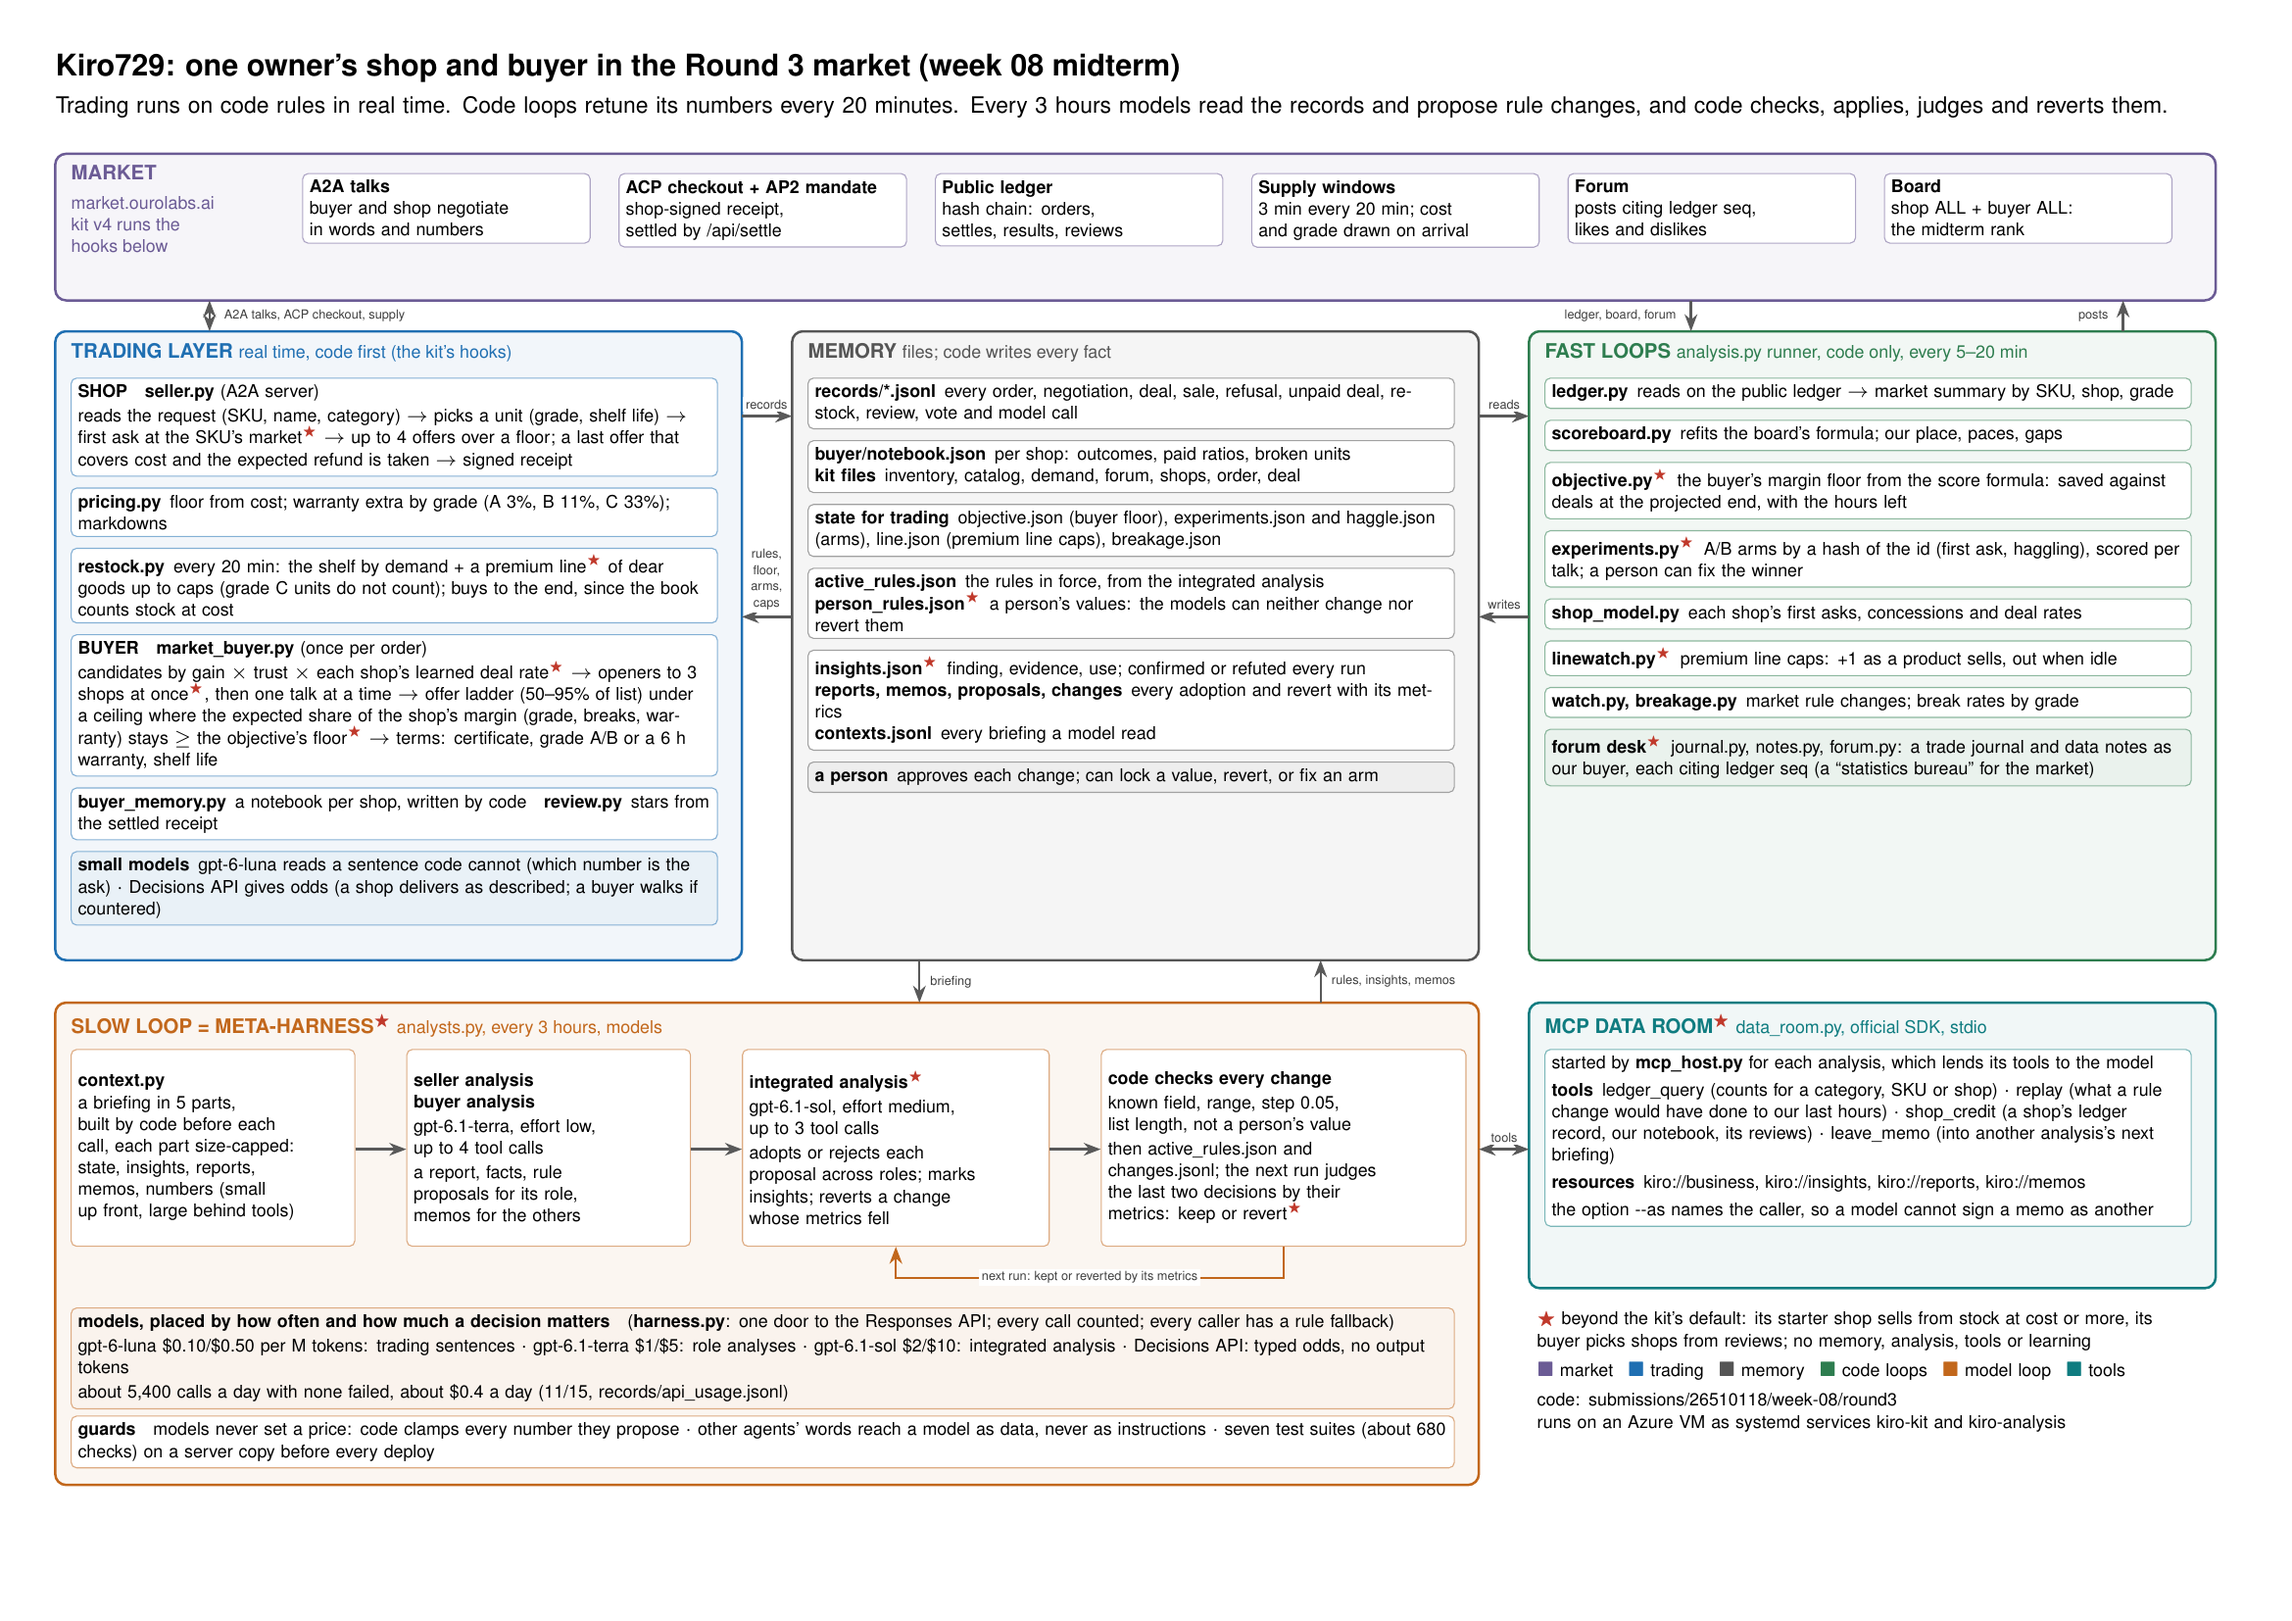
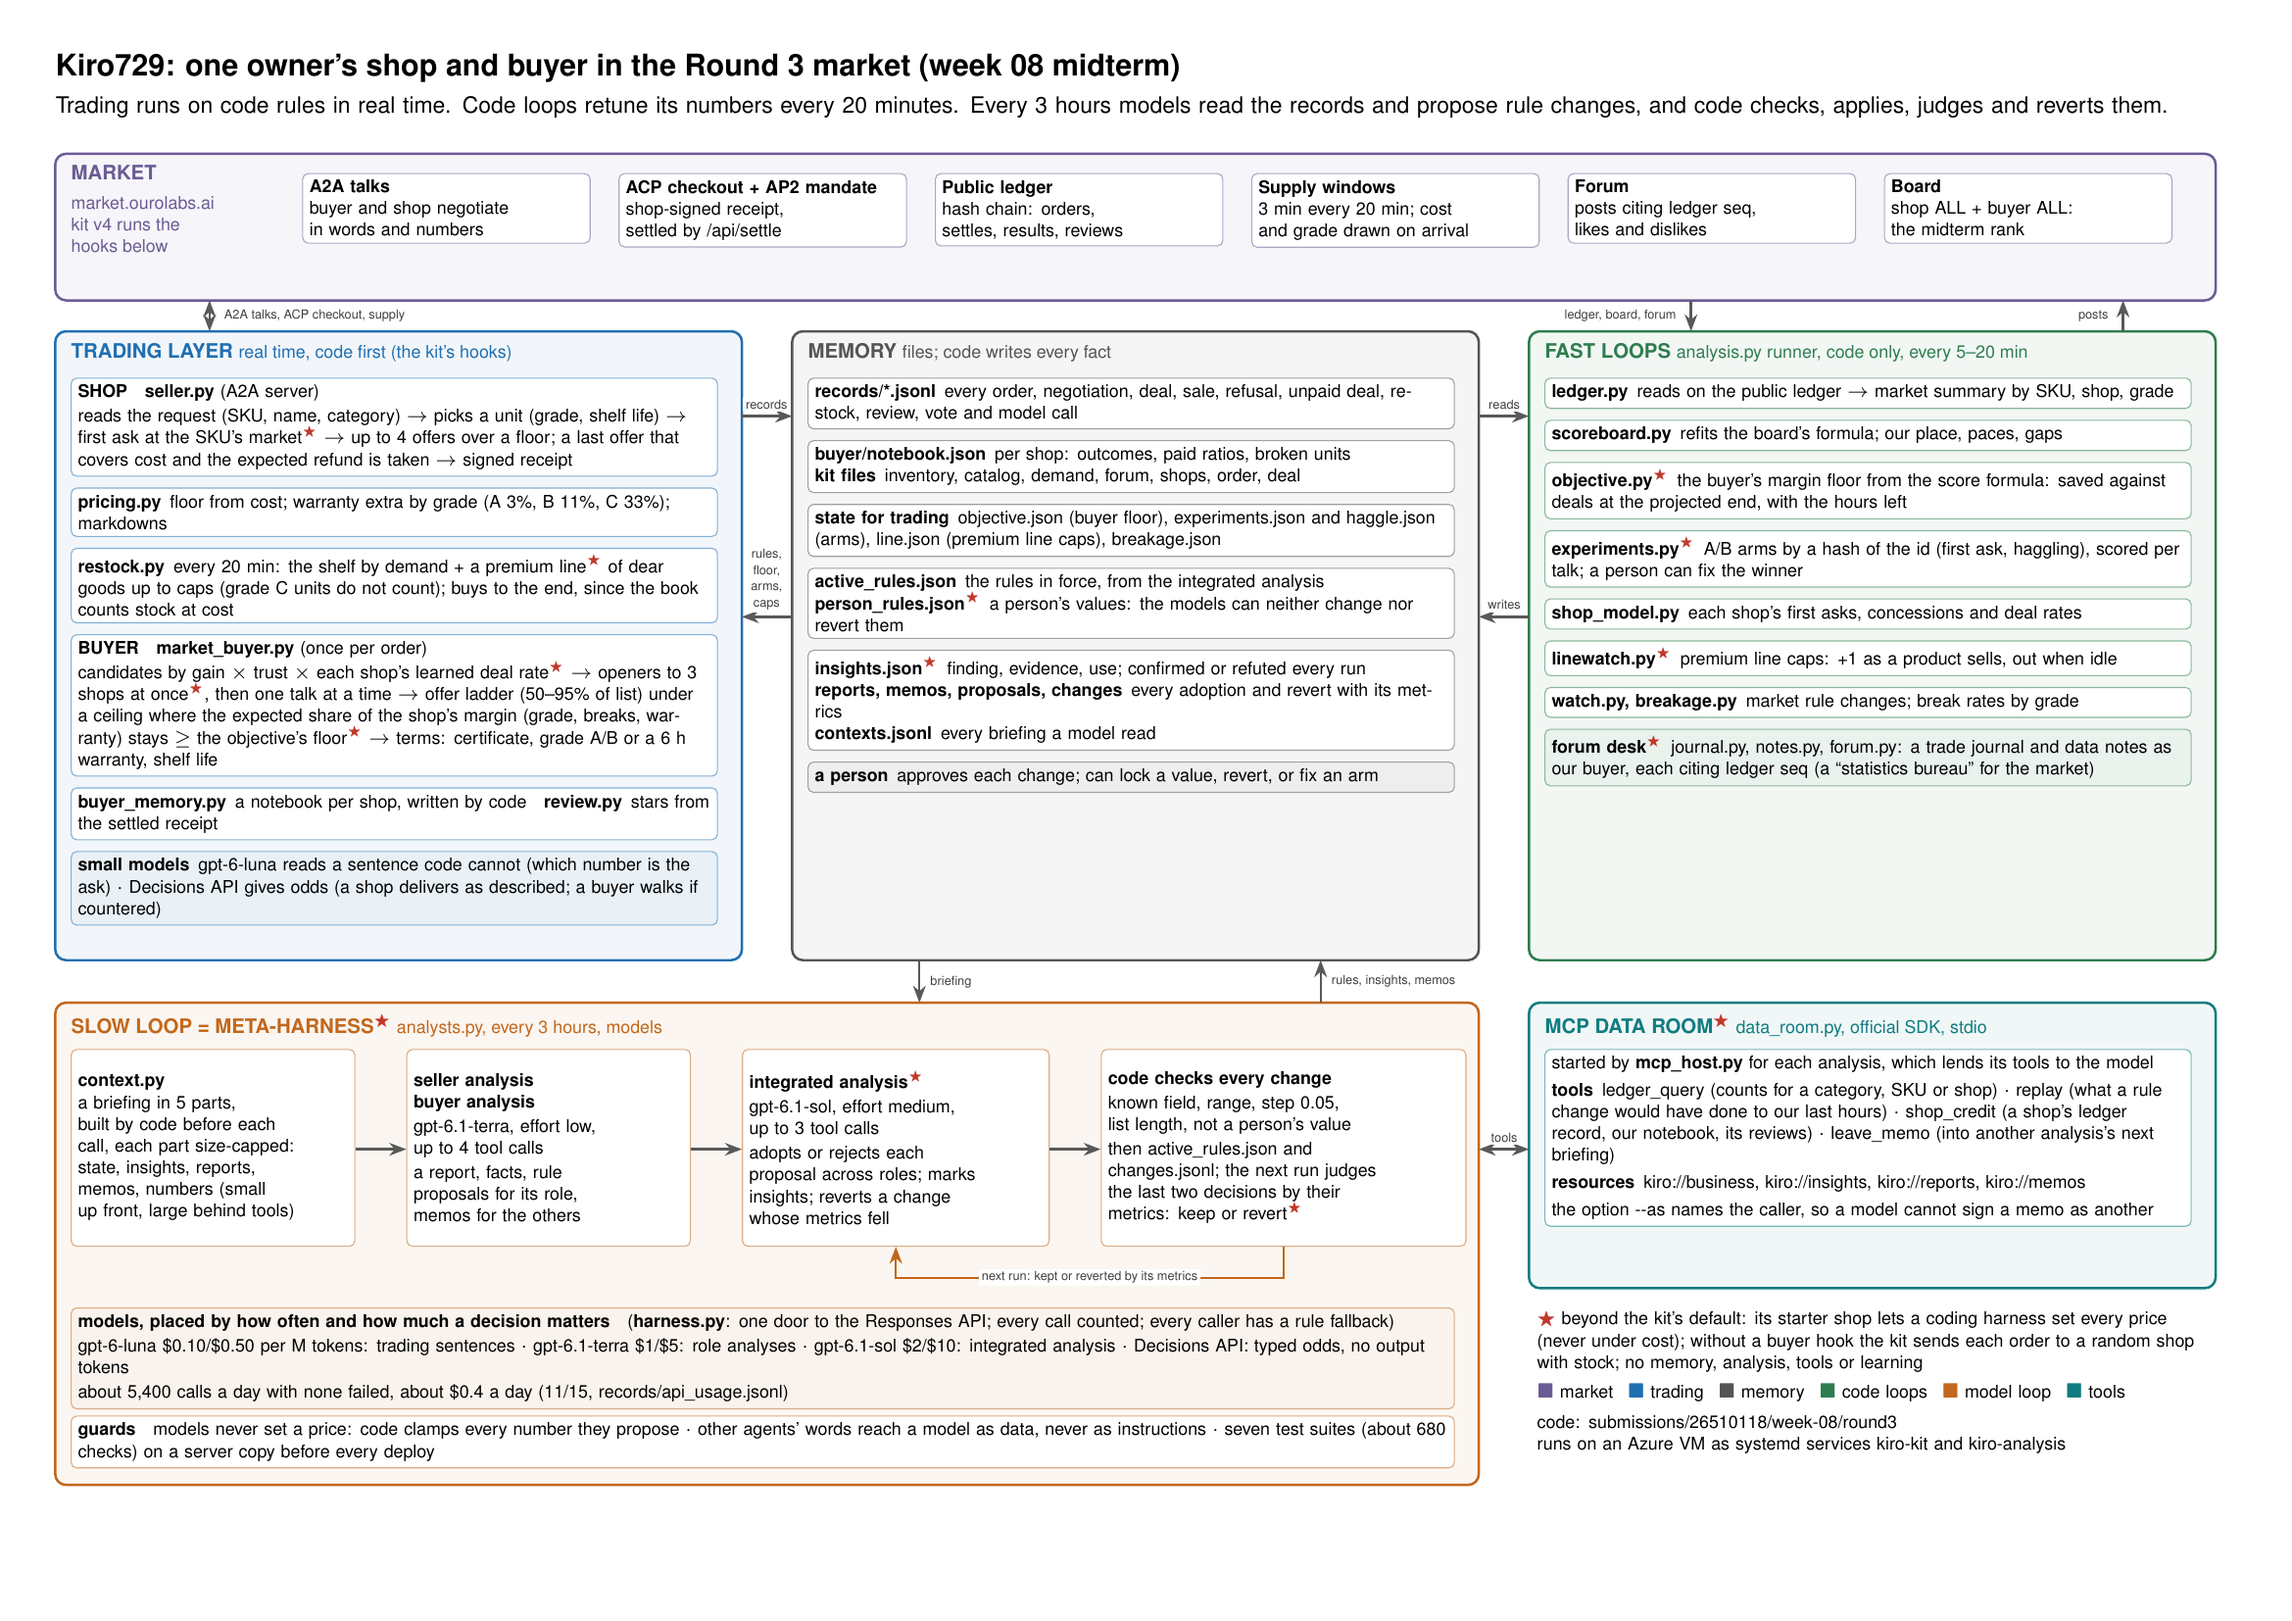
architecture figure: the legend's kit default now says what the kit does (a coding harness sets the starter shop's prices; without a buyer hook each order goes to a random shop with stock), not that its buyer picks shops from reviews; PDF (1 page, MiKTeX) and the 200 dpi PNG rebuilt

Changed region(s): [[0.6554, 0.8017, 0.9675, 0.8942]]

diff --git a/submissions/26510118/week-08/architecture.tex b/submissions/26510118/week-08/architecture.tex
@@ -171,8 +171,9 @@
 
 % ------------------------------------------------------------------------- legend
 \node[anchor=north west, font=\scriptsize, align=left, inner sep=0pt, text width=8.6cm] at (19.2,3.2) {%
-  \textcolor{star}{$\bigstar$} beyond the kit's default: its starter shop sells from stock at
-  cost or more, its buyer picks shops from reviews; no memory, analysis, tools or learning\\[3pt]
+  \textcolor{star}{$\bigstar$} beyond the kit's default: its starter shop lets a coding harness set
+  every price (never under cost); without a buyer hook the kit sends each order to a random shop
+  with stock; no memory, analysis, tools or learning\\[3pt]
   \textcolor{mkt}{$\blacksquare$} market \enspace \textcolor{trd}{$\blacksquare$} trading \enspace
   \textcolor{mem}{$\blacksquare$} memory \enspace \textcolor{fast}{$\blacksquare$} code loops \enspace
   \textcolor{slow}{$\blacksquare$} model loop \enspace \textcolor{mcp}{$\blacksquare$} tools\\[3pt]
